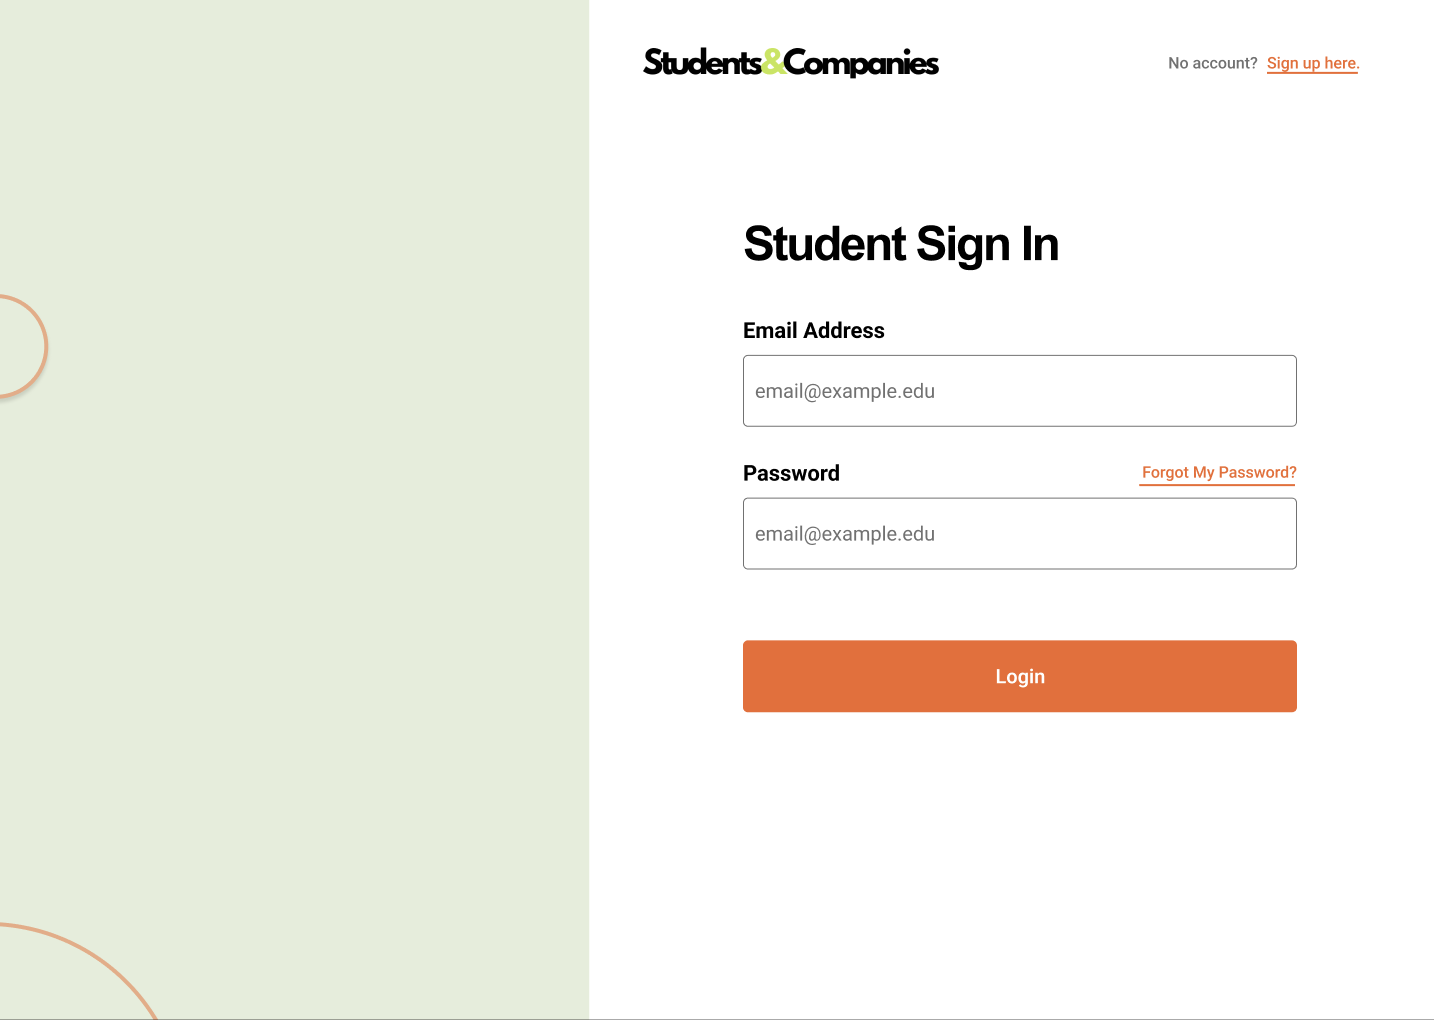
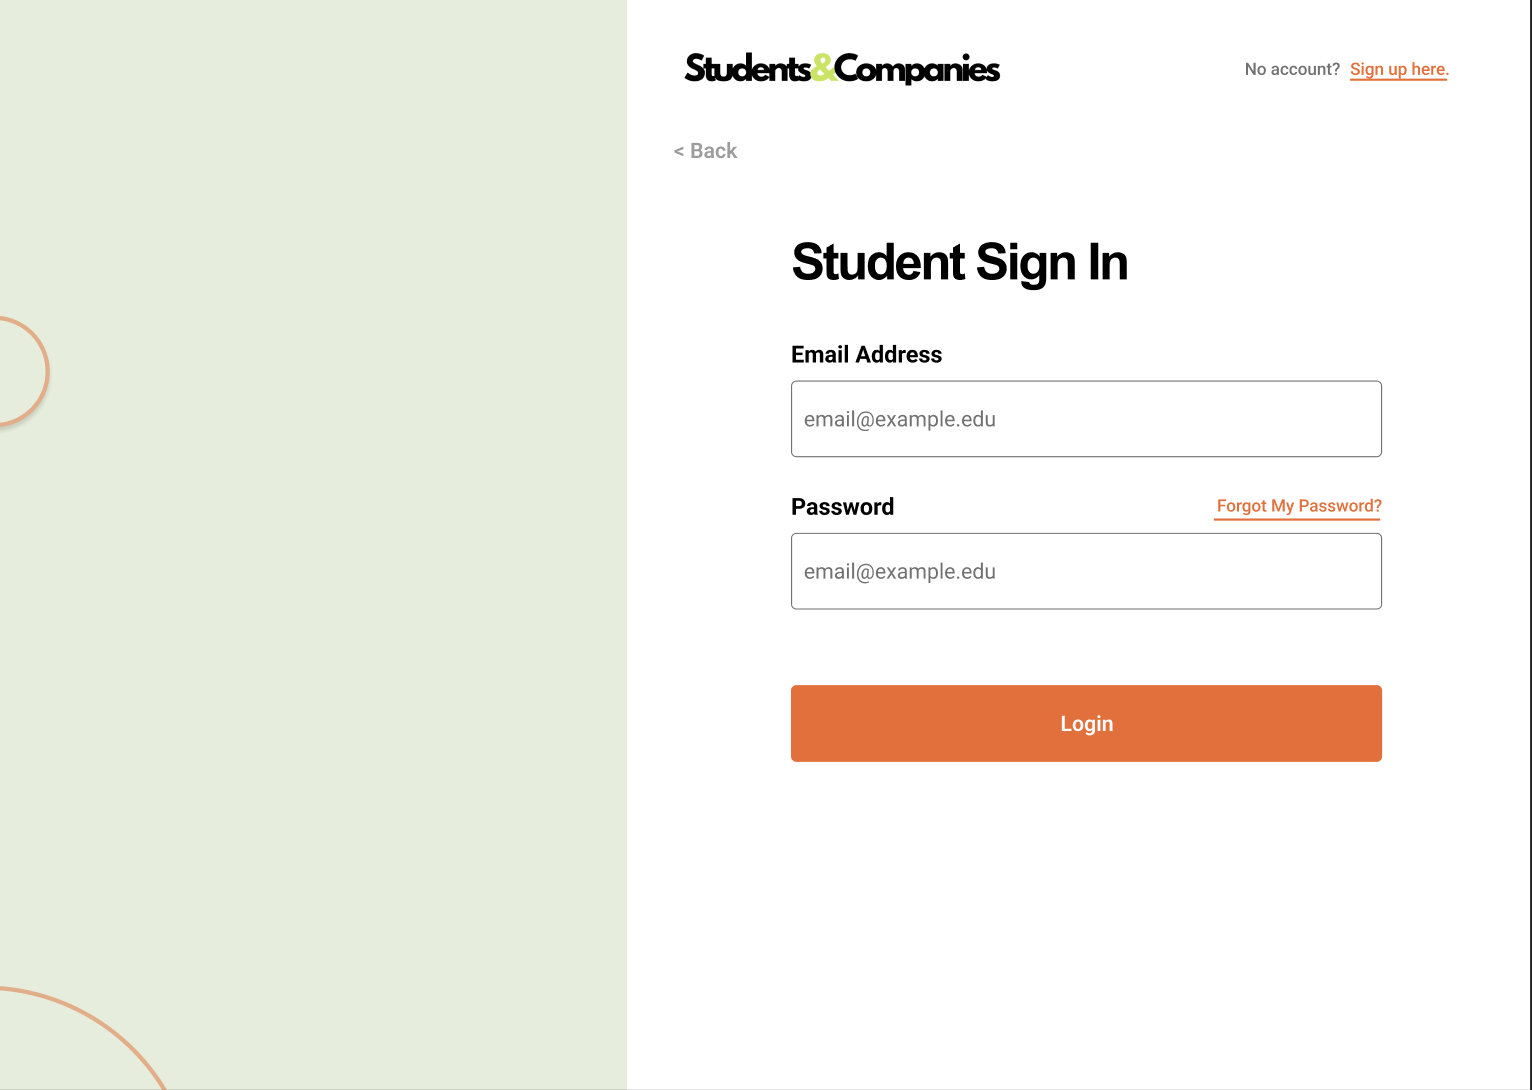
Updated all sign in pages

diff --git a/RASD.tex b/RASD.tex
@@ -408,7 +408,7 @@ In this section, the system aims to develop a user-friendly interface that align
     \centering
 \begin{figure}[H]
     \centering
-    \includegraphics[scale = 0.40]{figures/UserInterfaces/General/UniCareerSignIn.png}
+    \includegraphics[scale = 0.40]{figures/UserInterfaces/General/UniversitySignIn.png}
     \caption{University Sign In}
      \centering
 \end{figure}
